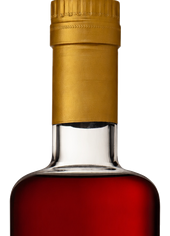
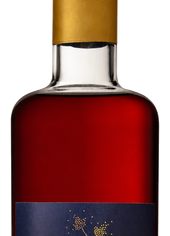
Refine red Pineau imagery

diff --git a/produits/pineau-rouge.html b/produits/pineau-rouge.html
@@ -15,7 +15,7 @@
   <link rel="preconnect" href="https://fonts.googleapis.com">
   <link rel="preconnect" href="https://fonts.gstatic.com" crossorigin>
   <link href="https://fonts.googleapis.com/css2?family=Montserrat:wght@300;400;500;600;700;800;900&family=Raleway:wght@200;300;400;500;600;700;800;900&family=Roboto+Slab:wght@200;300;400;500;600;700;800&display=swap" rel="stylesheet">
-  <link rel="stylesheet" href="../assets/css/styles.css?v=20260611-pineau-rouge02">
+  <link rel="stylesheet" href="../assets/css/styles.css?v=20260611-pineau-rouge03">
   <script type="application/ld+json">{"@context":"https://schema.org","@type":"Organization","name":"Cognac Esprit Organic","url":"https://cognac-esprit-organic.com/","email":"Cognac@mdpierre.com","telephone":"+33 5 45 35 88 10","address":{"@type":"PostalAddress","streetAddress":"30, rue d'Angoumême","postalCode":"16200","addressLocality":"Triac-Lautrait","addressCountry":"FR"},"brand":{"@type":"Brand","name":"Cognac Esprit Organic"}}</script>
 <script type="application/ld+json">{"@context":"https://schema.org","@type":"BreadcrumbList","itemListElement":[{"@type":"ListItem","position":1,"name":"Accueil","item":"https://cognac-esprit-organic.com/"},{"@type":"ListItem","position":2,"name":"Pineau rouge","item":"https://cognac-esprit-organic.com/produits/pineau-rouge.html"}]}</script>
 <script type="application/ld+json">{"@context":"https://schema.org","@type":"Product","name":"Pineau rouge","brand":{"@type":"Brand","name":"Cognac Esprit Organic"},"category":"Pineau des Charentes rouge","image":"https://cognac-esprit-organic.com/assets/img/products/pineau-rouge.png","description":"Pineau des Charentes rouge issu de Merlot et d'Ugni Blanc, fruité, souple et gourmand."}</script>
@@ -49,7 +49,7 @@
 </section>
 <section class="product-old-detail" style="--product-tone: #6b4d13; --product-gallery: #eae7db; --product-top: #565083; --product-mid: #3e3b59; --product-low: #6e6baf; --product-accent: #ecb038;">
   <div class="product-gallery-rail">
-    <button type="button" data-gallery-thumb data-gallery-target="../assets/img/products/pineau-rouge-scene.png" aria-label="Afficher le visuel 1 de Pineau rouge"><img src="../assets/img/products/pineau-rouge-scene.png" alt="" loading="lazy"></button><button type="button" data-gallery-thumb data-gallery-target="../assets/img/products/pineau-rouge.png" aria-label="Afficher le visuel 2 de Pineau rouge"><img src="../assets/img/products/pineau-rouge.png" alt="" loading="lazy"></button>
+    <button type="button" data-gallery-thumb data-gallery-target="../assets/img/products/pineau-rouge-scene.png" aria-label="Afficher le visuel 1 de Pineau rouge"><img src="../assets/img/products/pineau-rouge-scene.png" alt="" loading="lazy"></button><button type="button" data-gallery-thumb data-gallery-target="../assets/img/products/pineau-rouge-label.png" aria-label="Afficher le visuel 2 de Pineau rouge"><img src="../assets/img/products/pineau-rouge-label.png" alt="" loading="lazy"></button>
   </div>
   <div class="product-scene">
     <img src="../assets/img/products/pineau-rouge-scene.png" alt="Visuel Pineau rouge" data-gallery-main>
@@ -106,6 +106,6 @@
       </div>
     </div>
   </footer>
-  <script src="../assets/js/main.js?v=20260611-pineau-rouge02"></script>
+  <script src="../assets/js/main.js?v=20260611-pineau-rouge03"></script>
 </body>
 </html>

diff --git a/faq.html b/faq.html
@@ -15,7 +15,7 @@
   <link rel="preconnect" href="https://fonts.googleapis.com">
   <link rel="preconnect" href="https://fonts.gstatic.com" crossorigin>
   <link href="https://fonts.googleapis.com/css2?family=Montserrat:wght@300;400;500;600;700;800;900&family=Raleway:wght@200;300;400;500;600;700;800;900&family=Roboto+Slab:wght@200;300;400;500;600;700;800&display=swap" rel="stylesheet">
-  <link rel="stylesheet" href="assets/css/styles.css?v=20260611-pineau-rouge02">
+  <link rel="stylesheet" href="assets/css/styles.css?v=20260611-pineau-rouge03">
   <script type="application/ld+json">{"@context":"https://schema.org","@type":"Organization","name":"Cognac Esprit Organic","url":"https://cognac-esprit-organic.com/","email":"Cognac@mdpierre.com","telephone":"+33 5 45 35 88 10","address":{"@type":"PostalAddress","streetAddress":"30, rue d'Angoumême","postalCode":"16200","addressLocality":"Triac-Lautrait","addressCountry":"FR"},"brand":{"@type":"Brand","name":"Cognac Esprit Organic"}}</script>
 <script type="application/ld+json">{"@context":"https://schema.org","@type":"BreadcrumbList","itemListElement":[{"@type":"ListItem","position":1,"name":"Accueil","item":"https://cognac-esprit-organic.com/"},{"@type":"ListItem","position":2,"name":"FAQ Cognac Esprit Organic","item":"https://cognac-esprit-organic.com/faq.html"}]}</script>
 <script type="application/ld+json">{"@context":"https://schema.org","@type":"FAQPage","mainEntity":[{"@type":"Question","name":"Quels produits Cognac Esprit Organic sont disponibles ?","acceptedAnswer":{"@type":"Answer","text":"Les produits disponibles aujourd’hui sont VS, VSOP, Napoléon, XO, XXO, Single Cask, Pineau blanc et Pineau rouge."}},{"@type":"Question","name":"Quels marchés export sont visés ?","acceptedAnswer":{"@type":"Answer","text":"La formulation validée est : Europe, USA, Canada."}},{"@type":"Question","name":"Où se situe Cognac Esprit Organic ?","acceptedAnswer":{"@type":"Answer","text":"30, rue d'Angoumême, 16200 Triac-Lautrait, France"}},{"@type":"Question","name":"Quels sont les horaires de visite ?","acceptedAnswer":{"@type":"Answer","text":"Les visites sont possibles lundi-vendredi, 10h-12h ou 14h-17h, durée 1h, maximum 10 personnes."}},{"@type":"Question","name":"Le site est-il indexable pendant la préproduction ?","acceptedAnswer":{"@type":"Answer","text":"Non. La première version contient temporairement noindex,nofollow."}}]}</script>
@@ -69,6 +69,6 @@
       </div>
     </div>
   </footer>
-  <script src="assets/js/main.js?v=20260611-pineau-rouge02"></script>
+  <script src="assets/js/main.js?v=20260611-pineau-rouge03"></script>
 </body>
 </html>

diff --git a/produits/cohesion-napoleon.html b/produits/cohesion-napoleon.html
@@ -15,7 +15,7 @@
   <link rel="preconnect" href="https://fonts.googleapis.com">
   <link rel="preconnect" href="https://fonts.gstatic.com" crossorigin>
   <link href="https://fonts.googleapis.com/css2?family=Montserrat:wght@300;400;500;600;700;800;900&family=Raleway:wght@200;300;400;500;600;700;800;900&family=Roboto+Slab:wght@200;300;400;500;600;700;800&display=swap" rel="stylesheet">
-  <link rel="stylesheet" href="../assets/css/styles.css?v=20260611-pineau-rouge02">
+  <link rel="stylesheet" href="../assets/css/styles.css?v=20260611-pineau-rouge03">
   <script type="application/ld+json">{"@context":"https://schema.org","@type":"Organization","name":"Cognac Esprit Organic","url":"https://cognac-esprit-organic.com/","email":"Cognac@mdpierre.com","telephone":"+33 5 45 35 88 10","address":{"@type":"PostalAddress","streetAddress":"30, rue d'Angoumême","postalCode":"16200","addressLocality":"Triac-Lautrait","addressCountry":"FR"},"brand":{"@type":"Brand","name":"Cognac Esprit Organic"}}</script>
 <script type="application/ld+json">{"@context":"https://schema.org","@type":"BreadcrumbList","itemListElement":[{"@type":"ListItem","position":1,"name":"Accueil","item":"https://cognac-esprit-organic.com/"},{"@type":"ListItem","position":2,"name":"Cohesion Napoléon","item":"https://cognac-esprit-organic.com/produits/cohesion-napoleon.html"}]}</script>
 <script type="application/ld+json">{"@context":"https://schema.org","@type":"Product","name":"Cohesion Napoléon","brand":{"@type":"Brand","name":"Cognac Esprit Organic"},"category":"Cognac Napoléon","image":"https://cognac-esprit-organic.com/assets/img/products/cohesion-napoleon.jpg","description":"Cognac biologique équilibré, long et poivré, autour des fruits secs et d'une finale mentholée."}</script>
@@ -107,6 +107,6 @@
       </div>
     </div>
   </footer>
-  <script src="../assets/js/main.js?v=20260611-pineau-rouge02"></script>
+  <script src="../assets/js/main.js?v=20260611-pineau-rouge03"></script>
 </body>
 </html>

diff --git a/produits/conviction-vsop.html b/produits/conviction-vsop.html
@@ -15,7 +15,7 @@
   <link rel="preconnect" href="https://fonts.googleapis.com">
   <link rel="preconnect" href="https://fonts.gstatic.com" crossorigin>
   <link href="https://fonts.googleapis.com/css2?family=Montserrat:wght@300;400;500;600;700;800;900&family=Raleway:wght@200;300;400;500;600;700;800;900&family=Roboto+Slab:wght@200;300;400;500;600;700;800&display=swap" rel="stylesheet">
-  <link rel="stylesheet" href="../assets/css/styles.css?v=20260611-pineau-rouge02">
+  <link rel="stylesheet" href="../assets/css/styles.css?v=20260611-pineau-rouge03">
   <script type="application/ld+json">{"@context":"https://schema.org","@type":"Organization","name":"Cognac Esprit Organic","url":"https://cognac-esprit-organic.com/","email":"Cognac@mdpierre.com","telephone":"+33 5 45 35 88 10","address":{"@type":"PostalAddress","streetAddress":"30, rue d'Angoumême","postalCode":"16200","addressLocality":"Triac-Lautrait","addressCountry":"FR"},"brand":{"@type":"Brand","name":"Cognac Esprit Organic"}}</script>
 <script type="application/ld+json">{"@context":"https://schema.org","@type":"BreadcrumbList","itemListElement":[{"@type":"ListItem","position":1,"name":"Accueil","item":"https://cognac-esprit-organic.com/"},{"@type":"ListItem","position":2,"name":"Conviction VSOP","item":"https://cognac-esprit-organic.com/produits/conviction-vsop.html"}]}</script>
 <script type="application/ld+json">{"@context":"https://schema.org","@type":"Product","name":"Conviction VSOP","brand":{"@type":"Brand","name":"Cognac Esprit Organic"},"category":"Cognac VSOP","image":"https://cognac-esprit-organic.com/assets/img/products/conviction-vsop.jpg","description":"Cognac biologique rond et gourmand, avec une expression souple des fruits confits, du bois et des épices."}</script>
@@ -110,6 +110,6 @@
       </div>
     </div>
   </footer>
-  <script src="../assets/js/main.js?v=20260611-pineau-rouge02"></script>
+  <script src="../assets/js/main.js?v=20260611-pineau-rouge03"></script>
 </body>
 </html>

diff --git a/produits/transmission-xo.html b/produits/transmission-xo.html
@@ -15,7 +15,7 @@
   <link rel="preconnect" href="https://fonts.googleapis.com">
   <link rel="preconnect" href="https://fonts.gstatic.com" crossorigin>
   <link href="https://fonts.googleapis.com/css2?family=Montserrat:wght@300;400;500;600;700;800;900&family=Raleway:wght@200;300;400;500;600;700;800;900&family=Roboto+Slab:wght@200;300;400;500;600;700;800&display=swap" rel="stylesheet">
-  <link rel="stylesheet" href="../assets/css/styles.css?v=20260611-pineau-rouge02">
+  <link rel="stylesheet" href="../assets/css/styles.css?v=20260611-pineau-rouge03">
   <script type="application/ld+json">{"@context":"https://schema.org","@type":"Organization","name":"Cognac Esprit Organic","url":"https://cognac-esprit-organic.com/","email":"Cognac@mdpierre.com","telephone":"+33 5 45 35 88 10","address":{"@type":"PostalAddress","streetAddress":"30, rue d'Angoumême","postalCode":"16200","addressLocality":"Triac-Lautrait","addressCountry":"FR"},"brand":{"@type":"Brand","name":"Cognac Esprit Organic"}}</script>
 <script type="application/ld+json">{"@context":"https://schema.org","@type":"BreadcrumbList","itemListElement":[{"@type":"ListItem","position":1,"name":"Accueil","item":"https://cognac-esprit-organic.com/"},{"@type":"ListItem","position":2,"name":"Transmission XO","item":"https://cognac-esprit-organic.com/produits/transmission-xo.html"}]}</script>
 <script type="application/ld+json">{"@context":"https://schema.org","@type":"Product","name":"Transmission XO","brand":{"@type":"Brand","name":"Cognac Esprit Organic"},"category":"Cognac XO","image":"https://cognac-esprit-organic.com/assets/img/products/transmission-xo.jpg","description":"Cognac biologique structuré et généreux, marqué par la cerise noire, les fleurs séchées et le rancio."}</script>
@@ -108,6 +108,6 @@
       </div>
     </div>
   </footer>
-  <script src="../assets/js/main.js?v=20260611-pineau-rouge02"></script>
+  <script src="../assets/js/main.js?v=20260611-pineau-rouge03"></script>
 </body>
 </html>

diff --git a/produits/pineau.html b/produits/pineau.html
@@ -15,7 +15,7 @@
   <link rel="preconnect" href="https://fonts.googleapis.com">
   <link rel="preconnect" href="https://fonts.gstatic.com" crossorigin>
   <link href="https://fonts.googleapis.com/css2?family=Montserrat:wght@300;400;500;600;700;800;900&family=Raleway:wght@200;300;400;500;600;700;800;900&family=Roboto+Slab:wght@200;300;400;500;600;700;800&display=swap" rel="stylesheet">
-  <link rel="stylesheet" href="../assets/css/styles.css?v=20260611-pineau-rouge02">
+  <link rel="stylesheet" href="../assets/css/styles.css?v=20260611-pineau-rouge03">
   <script type="application/ld+json">{"@context":"https://schema.org","@type":"Organization","name":"Cognac Esprit Organic","url":"https://cognac-esprit-organic.com/","email":"Cognac@mdpierre.com","telephone":"+33 5 45 35 88 10","address":{"@type":"PostalAddress","streetAddress":"30, rue d'Angoumême","postalCode":"16200","addressLocality":"Triac-Lautrait","addressCountry":"FR"},"brand":{"@type":"Brand","name":"Cognac Esprit Organic"}}</script>
 <script type="application/ld+json">{"@context":"https://schema.org","@type":"BreadcrumbList","itemListElement":[{"@type":"ListItem","position":1,"name":"Accueil","item":"https://cognac-esprit-organic.com/"},{"@type":"ListItem","position":2,"name":"Pineau blanc","item":"https://cognac-esprit-organic.com/produits/pineau.html"}]}</script>
 <script type="application/ld+json">{"@context":"https://schema.org","@type":"Product","name":"Pineau blanc","brand":{"@type":"Brand","name":"Cognac Esprit Organic"},"category":"Pineau des Charentes blanc","image":"https://cognac-esprit-organic.com/assets/img/products/pineau.jpg","description":"Pineau des Charentes blanc biologique élaboré avec Colombard et Ugni Blanc, sans sulfites ajoutés."}</script>
@@ -108,6 +108,6 @@
       </div>
     </div>
   </footer>
-  <script src="../assets/js/main.js?v=20260611-pineau-rouge02"></script>
+  <script src="../assets/js/main.js?v=20260611-pineau-rouge03"></script>
 </body>
 </html>

diff --git a/produits/fondation-vs.html b/produits/fondation-vs.html
@@ -15,7 +15,7 @@
   <link rel="preconnect" href="https://fonts.googleapis.com">
   <link rel="preconnect" href="https://fonts.gstatic.com" crossorigin>
   <link href="https://fonts.googleapis.com/css2?family=Montserrat:wght@300;400;500;600;700;800;900&family=Raleway:wght@200;300;400;500;600;700;800;900&family=Roboto+Slab:wght@200;300;400;500;600;700;800&display=swap" rel="stylesheet">
-  <link rel="stylesheet" href="../assets/css/styles.css?v=20260611-pineau-rouge02">
+  <link rel="stylesheet" href="../assets/css/styles.css?v=20260611-pineau-rouge03">
   <script type="application/ld+json">{"@context":"https://schema.org","@type":"Organization","name":"Cognac Esprit Organic","url":"https://cognac-esprit-organic.com/","email":"Cognac@mdpierre.com","telephone":"+33 5 45 35 88 10","address":{"@type":"PostalAddress","streetAddress":"30, rue d'Angoumême","postalCode":"16200","addressLocality":"Triac-Lautrait","addressCountry":"FR"},"brand":{"@type":"Brand","name":"Cognac Esprit Organic"}}</script>
 <script type="application/ld+json">{"@context":"https://schema.org","@type":"BreadcrumbList","itemListElement":[{"@type":"ListItem","position":1,"name":"Accueil","item":"https://cognac-esprit-organic.com/"},{"@type":"ListItem","position":2,"name":"Fondation VS","item":"https://cognac-esprit-organic.com/produits/fondation-vs.html"}]}</script>
 <script type="application/ld+json">{"@context":"https://schema.org","@type":"Product","name":"Fondation VS","brand":{"@type":"Brand","name":"Cognac Esprit Organic"},"category":"Cognac VS","image":"https://cognac-esprit-organic.com/assets/img/products/fondation-vs.jpg","description":"Cognac biologique jeune, fruité et expressif, pensé pour une lecture directe du fruit."}</script>
@@ -107,6 +107,6 @@
       </div>
     </div>
   </footer>
-  <script src="../assets/js/main.js?v=20260611-pineau-rouge02"></script>
+  <script src="../assets/js/main.js?v=20260611-pineau-rouge03"></script>
 </body>
 </html>

diff --git a/produits/single-cask.html b/produits/single-cask.html
@@ -15,7 +15,7 @@
   <link rel="preconnect" href="https://fonts.googleapis.com">
   <link rel="preconnect" href="https://fonts.gstatic.com" crossorigin>
   <link href="https://fonts.googleapis.com/css2?family=Montserrat:wght@300;400;500;600;700;800;900&family=Raleway:wght@200;300;400;500;600;700;800;900&family=Roboto+Slab:wght@200;300;400;500;600;700;800&display=swap" rel="stylesheet">
-  <link rel="stylesheet" href="../assets/css/styles.css?v=20260611-pineau-rouge02">
+  <link rel="stylesheet" href="../assets/css/styles.css?v=20260611-pineau-rouge03">
   <script type="application/ld+json">{"@context":"https://schema.org","@type":"Organization","name":"Cognac Esprit Organic","url":"https://cognac-esprit-organic.com/","email":"Cognac@mdpierre.com","telephone":"+33 5 45 35 88 10","address":{"@type":"PostalAddress","streetAddress":"30, rue d'Angoumême","postalCode":"16200","addressLocality":"Triac-Lautrait","addressCountry":"FR"},"brand":{"@type":"Brand","name":"Cognac Esprit Organic"}}</script>
 <script type="application/ld+json">{"@context":"https://schema.org","@type":"BreadcrumbList","itemListElement":[{"@type":"ListItem","position":1,"name":"Accueil","item":"https://cognac-esprit-organic.com/"},{"@type":"ListItem","position":2,"name":"Single Cask","item":"https://cognac-esprit-organic.com/produits/single-cask.html"}]}</script>
 <script type="application/ld+json">{"@context":"https://schema.org","@type":"Product","name":"Single Cask","brand":{"@type":"Brand","name":"Cognac Esprit Organic"},"category":"Cognac Single Cask","image":"https://cognac-esprit-organic.com/assets/img/products/single-cask.jpg","description":"Édition limitée, 51 %, sélectionnée par Fanny."}</script>
@@ -107,6 +107,6 @@
       </div>
     </div>
   </footer>
-  <script src="../assets/js/main.js?v=20260611-pineau-rouge02"></script>
+  <script src="../assets/js/main.js?v=20260611-pineau-rouge03"></script>
 </body>
 </html>

diff --git a/produits/xxo.html b/produits/xxo.html
@@ -15,7 +15,7 @@
   <link rel="preconnect" href="https://fonts.googleapis.com">
   <link rel="preconnect" href="https://fonts.gstatic.com" crossorigin>
   <link href="https://fonts.googleapis.com/css2?family=Montserrat:wght@300;400;500;600;700;800;900&family=Raleway:wght@200;300;400;500;600;700;800;900&family=Roboto+Slab:wght@200;300;400;500;600;700;800&display=swap" rel="stylesheet">
-  <link rel="stylesheet" href="../assets/css/styles.css?v=20260611-pineau-rouge02">
+  <link rel="stylesheet" href="../assets/css/styles.css?v=20260611-pineau-rouge03">
   <script type="application/ld+json">{"@context":"https://schema.org","@type":"Organization","name":"Cognac Esprit Organic","url":"https://cognac-esprit-organic.com/","email":"Cognac@mdpierre.com","telephone":"+33 5 45 35 88 10","address":{"@type":"PostalAddress","streetAddress":"30, rue d'Angoumême","postalCode":"16200","addressLocality":"Triac-Lautrait","addressCountry":"FR"},"brand":{"@type":"Brand","name":"Cognac Esprit Organic"}}</script>
 <script type="application/ld+json">{"@context":"https://schema.org","@type":"BreadcrumbList","itemListElement":[{"@type":"ListItem","position":1,"name":"Accueil","item":"https://cognac-esprit-organic.com/"},{"@type":"ListItem","position":2,"name":"XXO","item":"https://cognac-esprit-organic.com/produits/xxo.html"}]}</script>
 <script type="application/ld+json">{"@context":"https://schema.org","@type":"Product","name":"XXO","brand":{"@type":"Brand","name":"Cognac Esprit Organic"},"category":"Cognac XXO","image":"https://cognac-esprit-organic.com/assets/img/products/xxo.jpg","description":"Premier XXO en agriculture biologique, doux, structuré et très fruité."}</script>
@@ -108,6 +108,6 @@
       </div>
     </div>
   </footer>
-  <script src="../assets/js/main.js?v=20260611-pineau-rouge02"></script>
+  <script src="../assets/js/main.js?v=20260611-pineau-rouge03"></script>
 </body>
 </html>

diff --git a/cocktails.html b/cocktails.html
@@ -15,7 +15,7 @@
   <link rel="preconnect" href="https://fonts.googleapis.com">
   <link rel="preconnect" href="https://fonts.gstatic.com" crossorigin>
   <link href="https://fonts.googleapis.com/css2?family=Montserrat:wght@300;400;500;600;700;800;900&family=Raleway:wght@200;300;400;500;600;700;800;900&family=Roboto+Slab:wght@200;300;400;500;600;700;800&display=swap" rel="stylesheet">
-  <link rel="stylesheet" href="assets/css/styles.css?v=20260611-pineau-rouge02">
+  <link rel="stylesheet" href="assets/css/styles.css?v=20260611-pineau-rouge03">
   <link rel="stylesheet" href="assets/css/mobile-fix.css?v=20260608-iphone01">
   <link rel="stylesheet" href="assets/css/cocktails.css?v=20260609-cocktails-fit01">
   <script type="application/ld+json">{"@context":"https://schema.org","@type":"Organization","name":"Cognac Esprit Organic","url":"https://cognac-esprit-organic.com/","email":"Cognac@mdpierre.com","telephone":"+33 5 45 35 88 10","address":{"@type":"PostalAddress","streetAddress":"30, rue d'Angoumême","postalCode":"16200","addressLocality":"Triac-Lautrait","addressCountry":"FR"},"brand":{"@type":"Brand","name":"Cognac Esprit Organic"}}</script>
@@ -98,6 +98,6 @@
     </section>
   </main>
   <footer class="site-footer"><div class="footer-grid"><div><img class="footer-logo" src="assets/img/logo-esprit-organic-white.svg" alt="Cognac Esprit Organic"><p class="small">L'abus d'alcool est dangereux pour la santé. A consommer avec modération.</p></div><div class="footer-links"><a href="produits/transmission-xo.html">Gamme</a><a href="cocktails.html">Cocktails</a></div></div></footer>
-  <script src="assets/js/main.js?v=20260611-pineau-rouge02"></script>
+  <script src="assets/js/main.js?v=20260611-pineau-rouge03"></script>
 </body>
 </html>

diff --git a/organic-cognac-producer-france.html b/organic-cognac-producer-france.html
@@ -15,7 +15,7 @@
   <link rel="preconnect" href="https://fonts.googleapis.com">
   <link rel="preconnect" href="https://fonts.gstatic.com" crossorigin>
   <link href="https://fonts.googleapis.com/css2?family=Montserrat:wght@300;400;500;600;700;800;900&family=Raleway:wght@200;300;400;500;600;700;800;900&family=Roboto+Slab:wght@200;300;400;500;600;700;800&display=swap" rel="stylesheet">
-  <link rel="stylesheet" href="assets/css/styles.css?v=20260611-pineau-rouge02">
+  <link rel="stylesheet" href="assets/css/styles.css?v=20260611-pineau-rouge03">
   <script type="application/ld+json">{"@context":"https://schema.org","@type":"Organization","name":"Cognac Esprit Organic","url":"https://cognac-esprit-organic.com/","email":"Cognac@mdpierre.com","telephone":"+33 5 45 35 88 10","address":{"@type":"PostalAddress","streetAddress":"30, rue d'Angoumême","postalCode":"16200","addressLocality":"Triac-Lautrait","addressCountry":"FR"},"brand":{"@type":"Brand","name":"Cognac Esprit Organic"}}</script>
 <script type="application/ld+json">{"@context":"https://schema.org","@type":"BreadcrumbList","itemListElement":[{"@type":"ListItem","position":1,"name":"Accueil","item":"https://cognac-esprit-organic.com/"},{"@type":"ListItem","position":2,"name":"Organic Cognac Producer in France","item":"https://cognac-esprit-organic.com/organic-cognac-producer-france.html"}]}</script>
 </head>
@@ -72,6 +72,6 @@
       </div>
     </div>
   </footer>
-  <script src="assets/js/main.js?v=20260611-pineau-rouge02"></script>
+  <script src="assets/js/main.js?v=20260611-pineau-rouge03"></script>
 </body>
 </html>

diff --git a/leopold-et-fanny/index.html b/leopold-et-fanny/index.html
@@ -15,7 +15,7 @@
   <link rel="preconnect" href="https://fonts.googleapis.com">
   <link rel="preconnect" href="https://fonts.gstatic.com" crossorigin>
   <link href="https://fonts.googleapis.com/css2?family=Montserrat:wght@300;400;500;600;700;800;900&family=Raleway:wght@200;300;400;500;600;700;800;900&family=Roboto+Slab:wght@200;300;400;500;600;700;800&display=swap" rel="stylesheet">
-  <link rel="stylesheet" href="../assets/css/styles.css?v=20260611-pineau-rouge02">
+  <link rel="stylesheet" href="../assets/css/styles.css?v=20260611-pineau-rouge03">
   <script type="application/ld+json">{"@context":"https://schema.org","@type":"Organization","name":"Cognac Esprit Organic","url":"https://cognac-esprit-organic.com/","email":"Cognac@mdpierre.com","telephone":"+33 5 45 35 88 10","address":{"@type":"PostalAddress","streetAddress":"30, rue d'Angoumême","postalCode":"16200","addressLocality":"Triac-Lautrait","addressCountry":"FR"},"brand":{"@type":"Brand","name":"Cognac Esprit Organic"}}</script>
 <script type="application/ld+json">{"@context":"https://schema.org","@type":"BreadcrumbList","itemListElement":[{"@type":"ListItem","position":1,"name":"Accueil","item":"https://cognac-esprit-organic.com/"},{"@type":"ListItem","position":2,"name":"Travailler d’une même passion","item":"https://cognac-esprit-organic.com/leopold-et-fanny/"}]}</script>
 </head>
@@ -89,6 +89,6 @@
       </div>
     </div>
   </footer>
-  <script src="../assets/js/main.js?v=20260611-pineau-rouge02"></script>
+  <script src="../assets/js/main.js?v=20260611-pineau-rouge03"></script>
 </body>
 </html>
